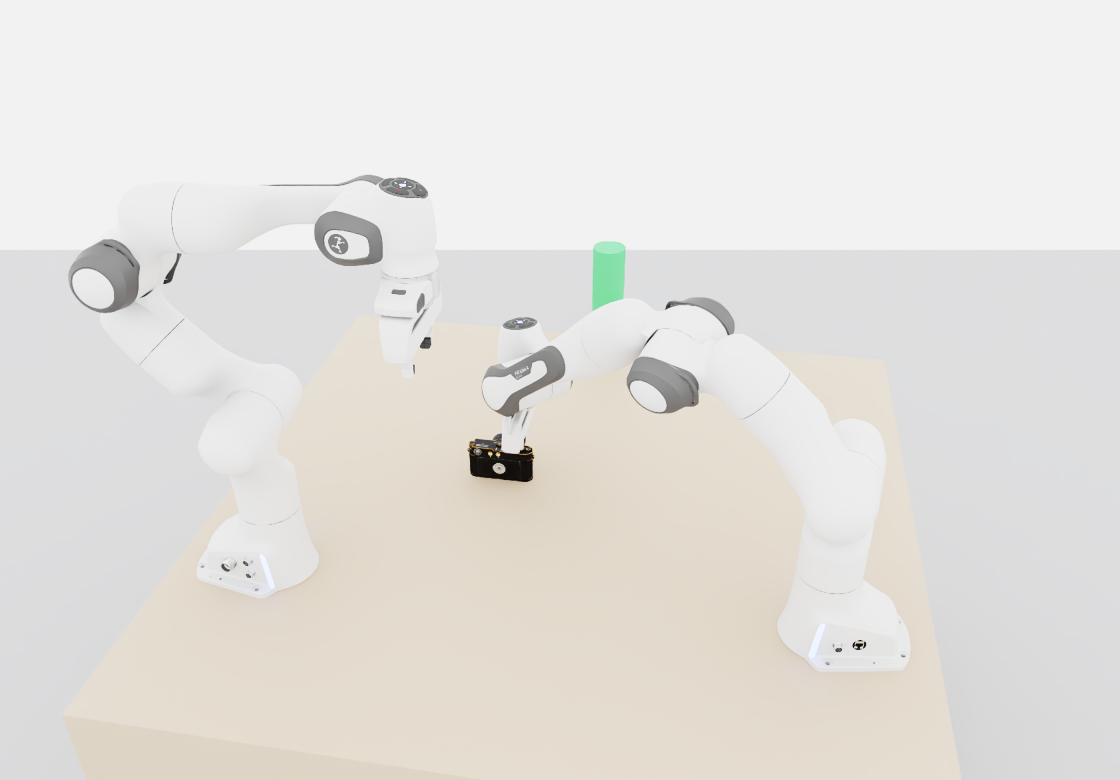
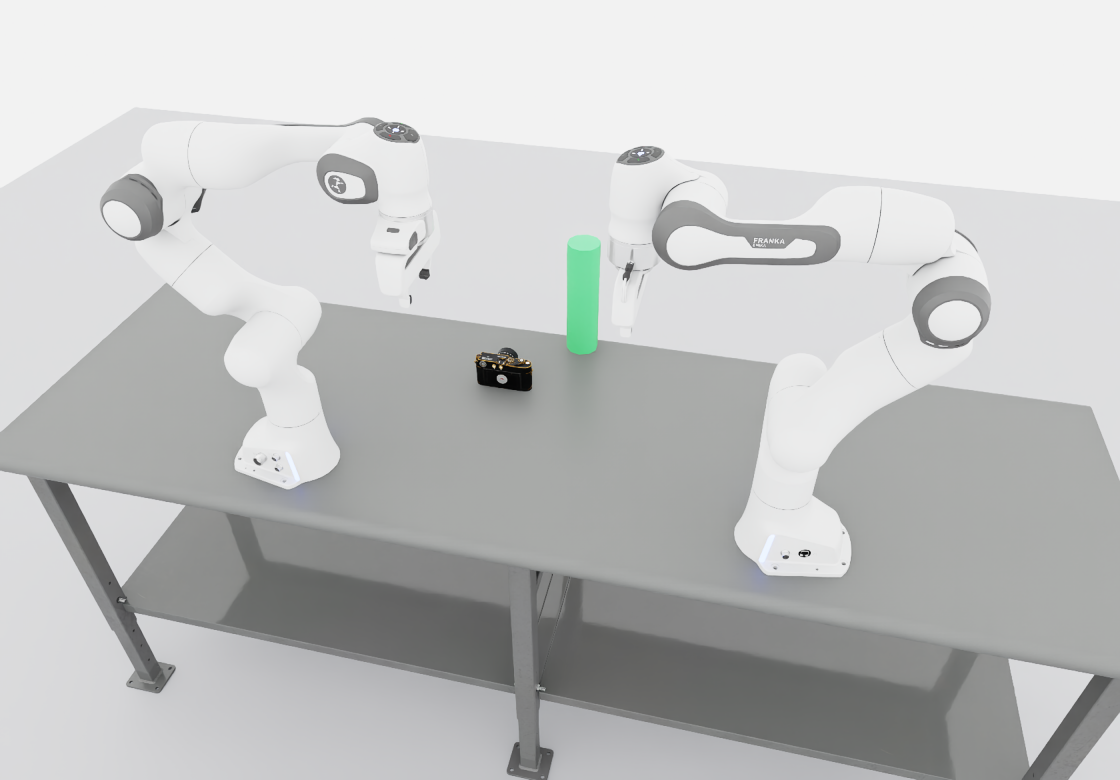
docs: show the packing work table in the README figures
Re-render the workcell overview and the shutter approach and press close-ups
with the new work table and the subject on its front edge.

diff --git a/README.md b/README.md
@@ -29,7 +29,7 @@ In `Bimanual-CameraShutter-Franka`, the left arm holds and aims the camera at a 
 | Grippers | Franka Panda two-finger parallel grippers |
 | Camera | Poly Haven's Camera 01 rangefinder model with a spring-loaded shutter button |
 
-![Two Franka Panda arms with parallel grippers facing each other across the Isaac Lab worktable](docs/images/readme/franka-panda-workcell.png)
+![Two Franka Panda arms with parallel grippers facing each other across the work table, with the camera and the green post on it](docs/images/readme/franka-panda-workcell.png)
 
 The right gripper closes as it approaches the shutter from above, then lowers onto the button.
 
